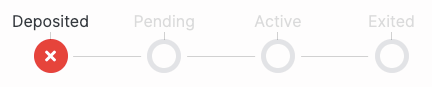
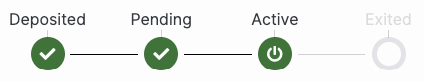
GitBook: [master] one page and 10 assets modified

diff --git a/ethereum-2.0-and-depositing-process/README.md b/ethereum-2.0-and-depositing-process/README.md
@@ -6,9 +6,8 @@ Before we start, to understand the basic idea of how Ethereum 2.0 keys work, the
 
 ## The deposit contract
 
-![](../.gitbook/assets/image%20%2874%29.png)
+![](../.gitbook/assets/image%20%28111%29.png)
 
-  
 Let's go through each of the **states** above and explain how their **durations** are approximately determined.
 
 ##  **1. Mempool - Status: Unknown**
@@ -38,7 +37,7 @@ Therefore, run your [own node](https://kb.beaconcha.in/run-a-goerli-node-eth1-an
 **1024 blocks** = 1024 x **~**13 seconds = 13,312 seconds = **~4 hours**  
 **32 Epochs** = 32 x 6.4 minutes =  204.8 minutes = **~3.5 hours**
 
-![](../.gitbook/assets/image%20%28113%29.png)
+![](../.gitbook/assets/image%20%28115%29.png)
 
 Also, when the Ethereum 2.0 chain recognizes the deposit \(after 7.5 hours\), the validator status will change to _**Deposited**_ on the [beaconcha.in](https://beaconcha.in/validator/0) explorer.
 
@@ -52,7 +51,7 @@ Also, when the Ethereum 2.0 chain recognizes the deposit \(after 7.5 hours\), th
 
 ## 3. Validator Queue - Status: Pending
 
-![](../.gitbook/assets/image%20%28107%29.png)
+![](../.gitbook/assets/image%20%28108%29.png)
 
 The first 16,384 Validators, the genesis validators, do **not** line up in a queue, but instantly start staking from [Slot](https://kb.beaconcha.in/glossary#slots-32-slots-1-epoch) 0.  
   
@@ -61,7 +60,7 @@ Any Ethereum 1.0 deposit **after** the 16,384th, lines up in a queue, and only f
 
 ## 4. Staking - Status: Active
 
-![](../.gitbook/assets/image%20%28110%29.png)
+![](../.gitbook/assets/image%20%28112%29.png)
 
 The validator is now actively staking, proposing blocks and signing attestations - ready to earn rewards!
 
@@ -73,13 +72,13 @@ The validator is now actively staking, proposing blocks and signing attestations
 
 The transaction had an invalid [BLS](https://kb.beaconcha.in/ethereum-2-keys#general) signature.
 
-![](../.gitbook/assets/image%20%28109%29.png)
+![](../.gitbook/assets/image%20%28110%29.png)
 
 #### Active Offline
 
 An active validator has not been attesting for two epochs.
 
-![](../.gitbook/assets/image%20%28115%29.png)
+![](../.gitbook/assets/image%20%28117%29.png)
 
 #### Exiting Online
 
@@ -104,7 +103,7 @@ The validator **is online** but has been malicious and was forced to exit the ne
 The validator **is offline** but has been malicious and was forced to exit the network.   
 It is currently in the exiting queue with a minimum of 25 minutes.
 
-![](../.gitbook/assets/image%20%28112%29.png)
+![](../.gitbook/assets/image%20%28114%29.png)
 
 #### Slashed
 
@@ -116,7 +115,7 @@ The validator has been kicked out of the network. The funds will be withdrawable
 
 The validator has exited the network. The funds will be withdrawable after 1 day.
 
-![](../.gitbook/assets/image%20%28114%29.png)
+![](../.gitbook/assets/image%20%28116%29.png)
 
 
 
